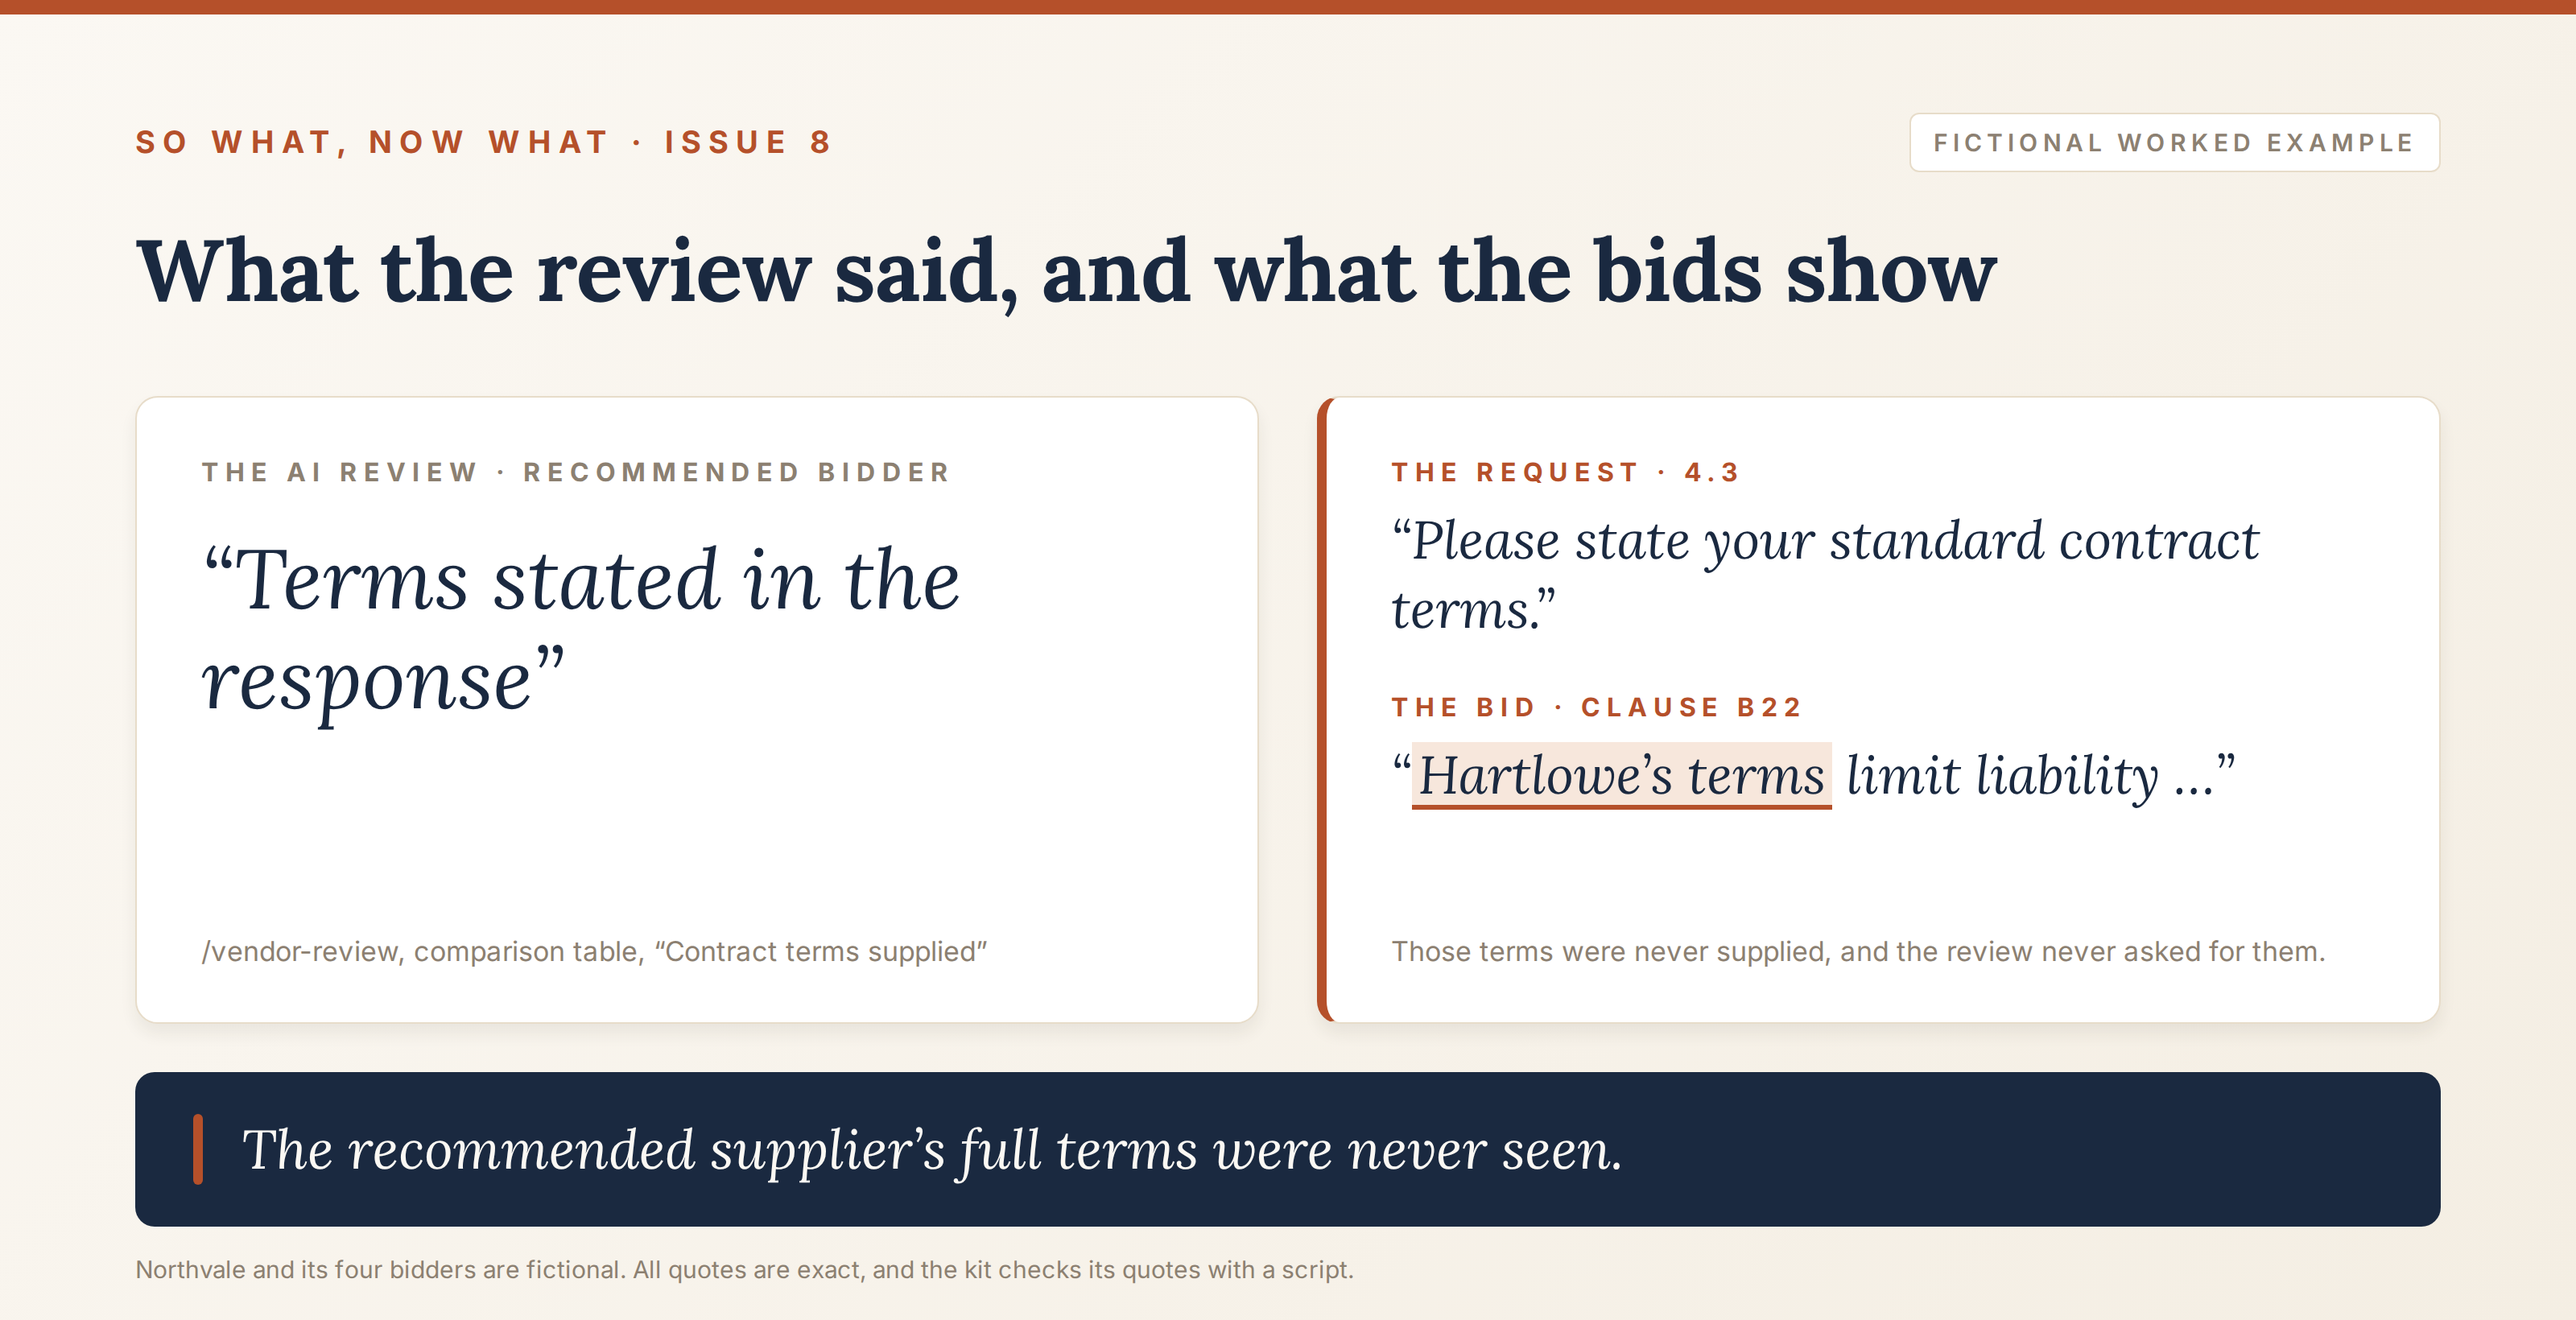
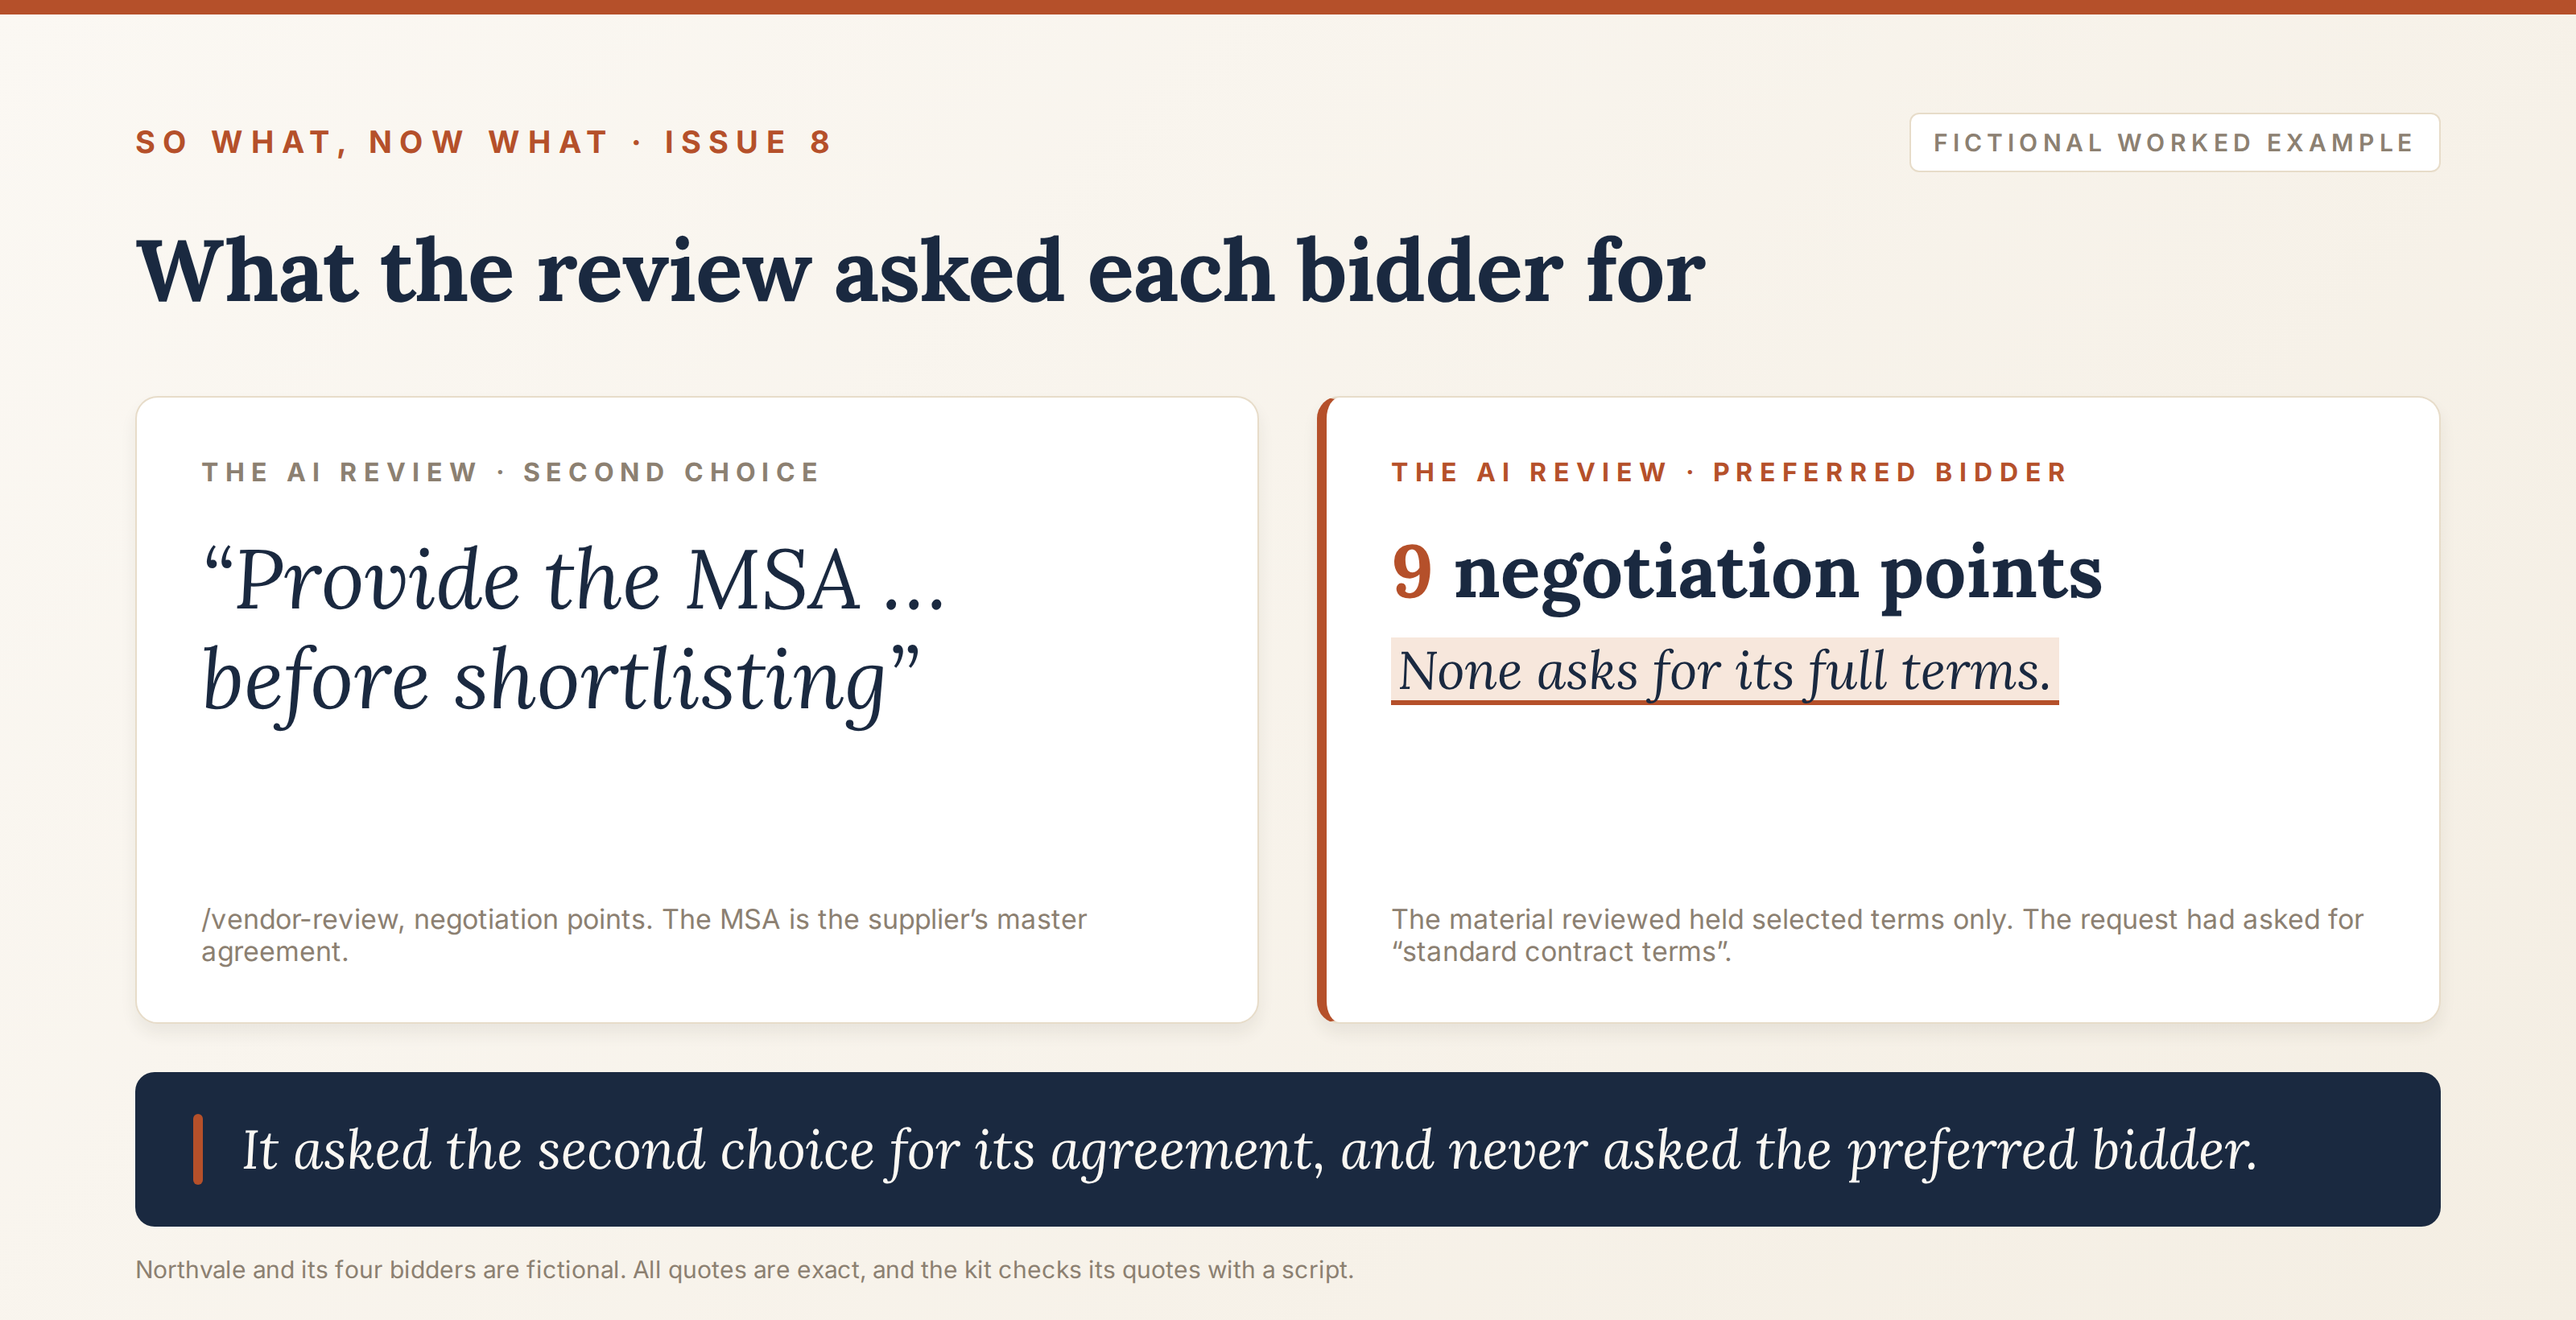
Add files via upload

diff --git a/issues/08-the-tender-read/assets/01-review-vs-bid-terms.html b/issues/08-the-tender-read/assets/01-review-vs-bid-terms.html
@@ -1,6 +1,5 @@
 <!doctype html>
-<!-- So What, Now What - Issue 8, VISUAL 3. DESIGN.md section 4. 1600x820, render at 2x. All quotes exact:
-     review: vendor-review-run.md, "Contract terms supplied" row; request: bid-pack.md 4.3; bid: bid-pack.md B22. -->
+<!-- So What, Now What - Issue 8, VISUAL 3 (v3). DESIGN.md section 4. 1600x820, render at 2x. All quotes exact: vendor-review-run.md, Negotiation Points (the Meridian MSA line; the nine Hartlowe lines); bid-pack.md RFQ 4.3. -->
 <html lang="en"><head><meta charset="utf-8"><link href="https://fonts.googleapis.com/css2?family=Lora:ital,wght@0,700;1,400&family=Inter:wght@400;600;700;800&display=swap" rel="stylesheet"><style>
 :root{--canvas:#FBF8F3;--canvas2:#F4EEE3;--card:#FFFFFF;--ink:#1A2940;--body:#33445C;--muted:#8C8071;--ember:#B5502A;--soft:#F7E7DC;--hair:#E7DCC9}
 *{box-sizing:border-box;margin:0}html,body{width:1600px;height:820px}
@@ -17,7 +16,7 @@ h1{font-family:Lora,Georgia,serif;font-weight:700;font-size:54px;letter-spacing:
 .bid .lab{color:var(--ember)}
 .q{font-family:Lora,Georgia,serif;font-style:italic;color:var(--ink);margin-top:26px;flex:1}
 .review .q{font-size:52px;line-height:1.2}
-.q2{font-family:Lora,Georgia,serif;font-style:italic;font-size:33px;line-height:1.3;color:var(--ink);margin-top:12px}.bid .src{margin-top:auto}
+.big{font-family:Lora,Georgia,serif;font-weight:700;font-size:46px;color:var(--ink);margin-top:22px}.big .n{color:var(--ember)}.q2{font-family:Lora,Georgia,serif;font-style:italic;font-size:33px;line-height:1.3;color:var(--ink);margin-top:12px}.bid .src{margin-top:auto}
 .x{font-style:italic;background:var(--soft);box-shadow:inset 0 -3px 0 var(--ember);padding:0 4px}
 .src{font-size:17px;color:var(--muted)}
 .sb{position:absolute;left:84px;right:84px;bottom:58px;height:96px;background:var(--ink);border-radius:12px;display:flex;align-items:center;padding:0 36px}
@@ -26,17 +25,16 @@ h1{font-family:Lora,Georgia,serif;font-weight:700;font-size:54px;letter-spacing:
 .foot{position:absolute;left:84px;bottom:22px;font-size:15px;color:var(--muted)}
 </style></head><body><div class="v"><div class="bar"></div>
 <div class="top"><div class="eyebrow">So What, Now What &middot; Issue 8</div><div class="chip">Fictional worked example</div></div>
-<h1>What the review said, and what the bids show</h1>
+<h1>What the review asked each bidder for</h1>
 <div class="cols">
- <div class="card review"><div class="lab">The AI review &middot; recommended bidder</div>
-  <div class="q">&ldquo;Terms stated in the response&rdquo;</div>
-  <div class="src">/vendor-review, comparison table, &ldquo;Contract terms supplied&rdquo;</div></div>
- <div class="card bid"><div class="lab">The request &middot; 4.3</div>
-  <div class="q2">&ldquo;Please state your standard contract terms.&rdquo;</div>
-  <div class="lab" style="margin-top:28px">The bid &middot; Clause B22</div>
-  <div class="q2">&ldquo;<span class="x">Hartlowe&rsquo;s terms</span> limit liability &hellip;&rdquo;</div>
-  <div class="src">Those terms were never supplied, and the review never asked for them.</div></div>
+ <div class="card review"><div class="lab">The AI review &middot; second choice</div>
+  <div class="q">&ldquo;Provide the MSA &hellip; before shortlisting&rdquo;</div>
+  <div class="src">/vendor-review, negotiation points. The MSA is the supplier&rsquo;s master agreement.</div></div>
+ <div class="card bid"><div class="lab">The AI review &middot; preferred bidder</div>
+  <div class="big"><span class="n">9</span> negotiation points</div>
+  <div class="q2"><span class="x">None asks for its full terms.</span></div>
+  <div class="src">The material reviewed held selected terms only. The request had asked for &ldquo;standard contract terms&rdquo;.</div></div>
 </div>
-<div class="sb"><div class="tick"></div><p>The recommended supplier&rsquo;s full terms were never seen.</p></div>
+<div class="sb"><div class="tick"></div><p>It asked the second choice for its agreement, and never asked the preferred bidder.</p></div>
 <div class="foot">Northvale and its four bidders are fictional. All quotes are exact, and the kit checks its quotes with a script.</div>
 </div></body></html>
